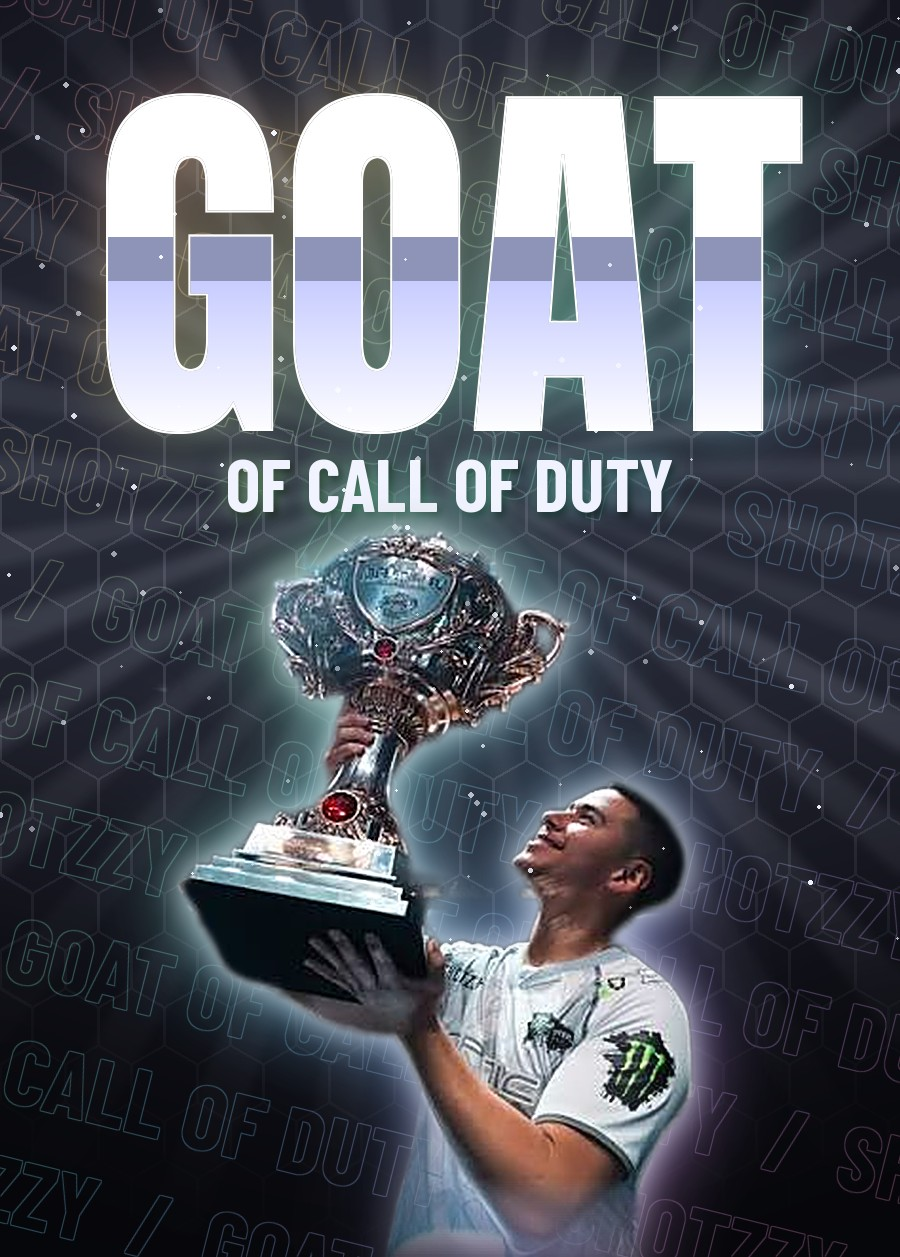
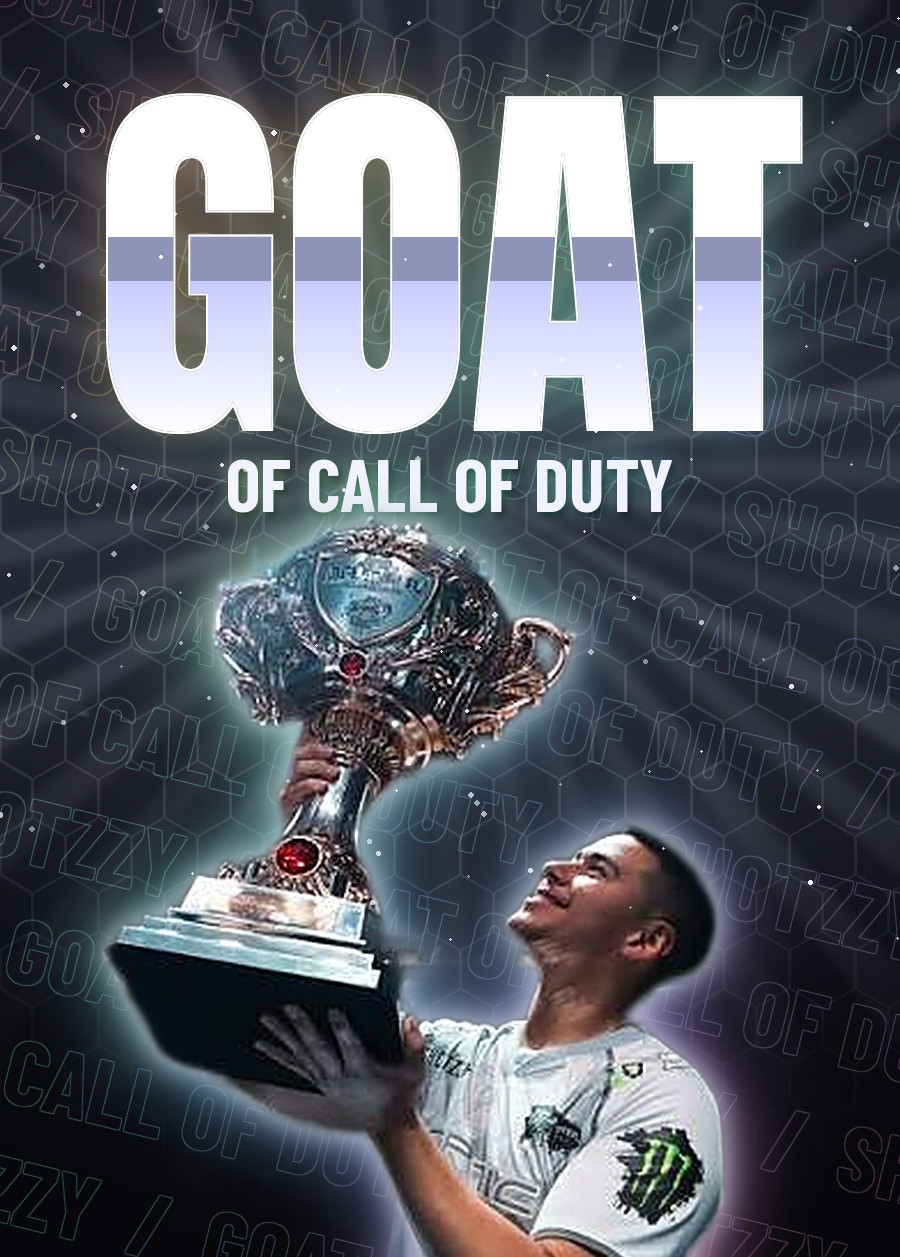
GOAT Shotzzy : joueur plus grand
Claude-Session: https://claude.ai/code/session_01Dg1JrLG6P1kF5UdtUDydXh

Changed region(s): [[0.0622, 0.4033, 0.8711, 1.0]]

diff --git a/data/origines.js b/data/origines.js
@@ -151,7 +151,7 @@ window.ORIGINES = {
     "Astralis — La dynastie des 4 Majors": {"img": "assets/cartes/astralis-la-dynastie-des-4-majors.jpg?v=9c628fb0", "color": "#e21c30", "photo": true},
     "OG — Le doublé TI8 & TI9": {"img": "assets/cartes/og-le-double-ti8-ti9.jpg?v=08a4fe05", "color": "#2fd08a", "photo": true},
     "Kaydop": {"img": "assets/cartes/kaydop-goat.jpg?v=aa8a387f", "color": "#5aa9ff", "photo": true},
-    "Shotzzy": {"img": "assets/cartes/shotzzy-goat.jpg?v=9242d66e", "color": "#92c83e", "photo": true},
+    "Shotzzy": {"img": "assets/cartes/shotzzy-goat.jpg?v=77bfde41", "color": "#92c83e", "photo": true},
     "Kaydop — Triple champion du monde": {"img": "assets/cartes/kaydop-triple-champion-du-monde.jpg?v=8e10b0b5", "color": "#f5c935", "photo": true},
     "ZywOo": {"img": "assets/cartes/zywoo-goat.jpg?v=33563a72", "color": "#f5c935", "photo": true},
     "apEX — Le capitaine": {"img": "assets/cartes/apex-le-capitaine.jpg?v=ba0c87d5", "color": "#f5c935", "photo": true},

diff --git a/index.html b/index.html
@@ -1119,7 +1119,7 @@
 <div class="demo-bar" id="demoBar" hidden title="Cliquer pour masquer">Mode démo : le serveur n'est pas encore branché. La progression reste dans ce navigateur. ✕</div>
 <div class="toast" id="toast" role="status"></div>
 
-<script src="data/origines.js?v=4a97d7ad"></script>
+<script src="data/origines.js?v=10f33b07"></script>
 <script src="js/vendor/supabase.js?v=43b205e2"></script>
 <script src="config.js?v=0e2600ff"></script>
 <script src="js/app.js?v=440a9b3f"></script>
